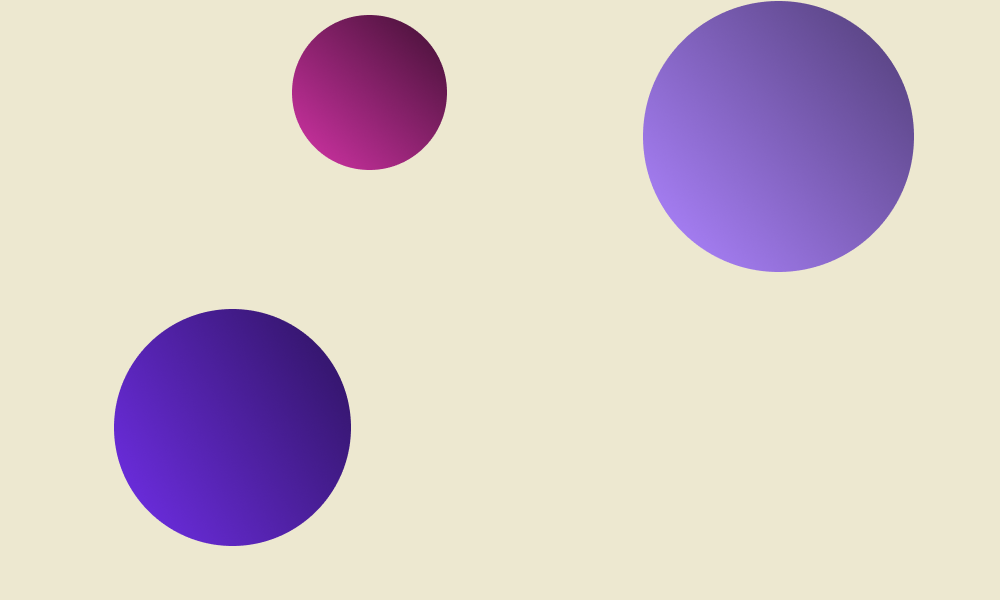
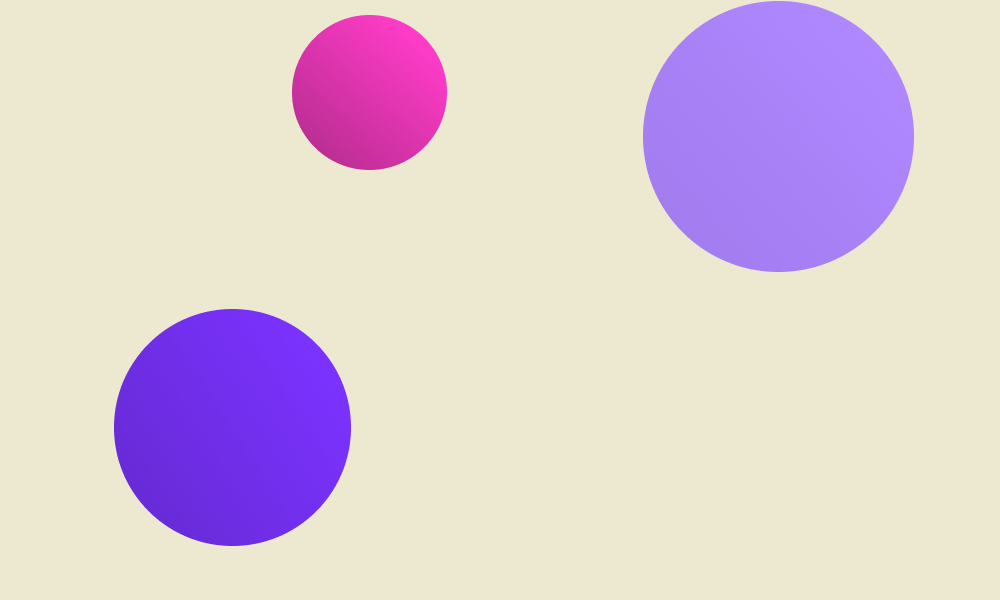
Made light mode css file

Changed region(s): [[0.651, 0.0, 0.93, 0.45], [0.124, 0.51, 0.372, 0.93], [0.279, 0.0, 0.465, 0.3]]

diff --git a/dashboard/src/main/resources/css/light.css b/dashboard/src/main/resources/css/light.css
@@ -1,0 +1,78 @@
+.root {
+    -fx-background-image: url("/images/light-background.png");
+}
+
+.theme-button {
+    -fx-background-color: rgba(149, 113, 219, 1);
+    -fx-text-fill: black;
+    -fx-padding: 5px 10px;
+}
+
+#titleLabel {
+    -fx-text-fill: black;
+}
+
+.primary-button {
+    -fx-background-color: rgba(149, 113, 219, 1);
+    -fx-text-fill: black;
+}
+
+.primary-button:hover {
+    -fx-effect: dropshadow(gaussian, rgba(255, 255, 255, 0.1), 15, 0.5, 0, 0);
+}
+
+.primary-button:pressed {
+    -fx-background-color: linear-gradient(to bottom, #661ec3, #4a138c);
+}
+
+.primary-button .label {
+    -fx-text-fill: black;
+}
+
+.secondary-button {
+    -fx-text-fill: black;
+}
+
+TextField {
+    -fx-prompt-text-fill: rgb(0, 0, 0, 0.9);
+}
+
+.metric-select Label {
+    -fx-text-fill: black;
+}
+
+.metric-select HBox Label {
+    -fx-text-fill: black;
+}
+
+.metric-select HBox CheckBox {
+    -fx-text-fill: black;
+}
+
+.time-scale Label {
+    -fx-text-fill: black;
+}
+
+/* Chart Styles */
+.axis {
+    -fx-tick-label-fill: black;
+}
+
+.axis-label {
+    -fx-text-fill: black;
+}
+
+.chart-axis {
+    -fx-tick-mark-stroke: black;
+}
+
+.chart-title {
+    -fx-text-fill: black;
+}
+
+.chart-axis-label {
+    -fx-text-fill: black;
+}
+.chart-legend-item {
+    -fx-text-fill: black;
+}

diff --git a/dashboard/src/main/resources/css/dark.css b/dashboard/src/main/resources/css/dark.css
@@ -2,7 +2,7 @@
     -fx-background-image: url("/images/dark-background.png");
 }
 
-.colour-button {
+.theme-button {
     -fx-background-color: rgba(104, 43, 215, 1);
     -fx-text-fill: white;
     -fx-padding: 5px 10px;
